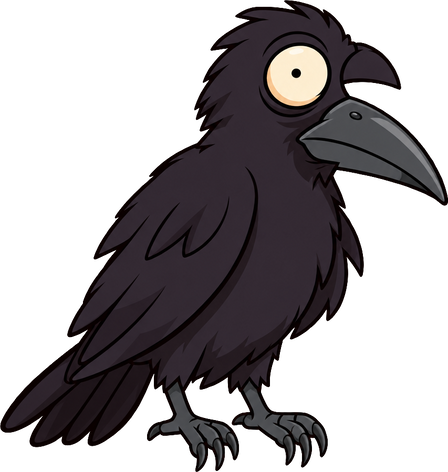
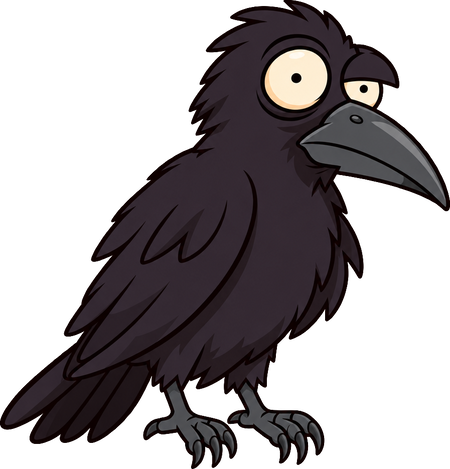
Crow: both eyes - the far eye drawn in over the beak, in every pose and flip
The crow's part take had the far eye's dark brow bump over the beak with a see-through gap under it and no eye,
so in profile (and mirrored, when it turns round) it read as one-eyed. Redrawn by the image model from that take
(gen_scare_parts.py: new takeref / cand / pick steps, the old take kept as raw/old/crow_1.png; candidate 3 of 3
picked, $0.084 each) with the far eye peeking over the beak under its brow, then registered on the old take
(scale .956, silhouette IoU .954) so the feet, neck joint and wing shoulders stay put.

cut_scare_parts.py cut crow + made crow (new `made <names>` filter): both eyes in crow_head, eye pixels all
alpha 1.0 (3366 cream px, 0 below 1). pack_scare_rig.py: rig.bin byte-identical (no animation change), atlas
re-packed (582.5 -> 583.0 KB), crow pivots re-anchored. Checked: every crow clip pose, flipped and not, game at
1920x1080 and 390x844 (DPR 3) before/after (research/crow_eye/, local), no console errors, 165 fps uncapped rAF
in headless Chrome.

diff --git a/tools/fall/gen_scare_parts.py b/tools/fall/gen_scare_parts.py
@@ -8,6 +8,9 @@ where its neighbours used to cover it, on a transparent background.
 
   .venv/Scripts/python.exe -I tools/fall/gen_scare_parts.py refs                # the reference pictures
   .venv/Scripts/python.exe -I tools/fall/gen_scare_parts.py gen [name,name|all] [--redo]   # the raw parts
+  .venv/Scripts/python.exe -I tools/fall/gen_scare_parts.py takeref <name> <raw.png>      # an earlier take as a ref
+  .venv/Scripts/python.exe -I tools/fall/gen_scare_parts.py cand <name> <first n> <count>   # takes into raw/cand/
+  .venv/Scripts/python.exe -I tools/fall/gen_scare_parts.py pick <name> <n>                # raw/cand/<name>_<n> -> raw/
 -> art/fall-src/scare_parts/ref/*.png, raw/<name>.png (an older take is kept as raw/old/<name>_<n>.png),
    log.jsonl (time, part, prompt, refs, cost). tools/fall/cut_scare_parts.py turns the raw takes into clean parts."""
 import json, os, shutil, sys, time
@@ -140,9 +143,18 @@ PARTS = {
     "jug": ("jug", "Draw ONLY his brown moonshine JUG as one separate piece: the stoneware jug with the tan XXX label "
             "band, the little handle ring, the cork, and the ring of rope tied round its neck. The rope that it "
             "hangs from is cut off just above the neck. NO straw, NO sleeve, NO hand, no wood."),
-    "crow": ("crow", "Draw ONLY the black CROW as one separate piece, wings folded, with its cream eye, grey beak and "
-             "both grey feet with their claws drawn COMPLETE (gripping nothing). NO wooden crossbar, NO rope, NO "
-             "straw."),
+    # (2026-11-15, owner: "fix the missing eye in our bird" - the first take drew the far eye's brow bump over the
+    # beak with nothing under it; the crow is redrawn from that take (reference 3) with BOTH eyes)
+    "crow": ("crow", "Draw ONLY the black CROW as one separate piece, wings folded, with its grey beak and both grey "
+             "feet with their claws drawn COMPLETE (gripping nothing). Reference 3 is the crow as it is drawn now: "
+             "copy reference 3 EXACTLY - the same pose, body, head, feathers, tail, beak, feet, proportions, line "
+             "weight and colours, at the same size and in the same place on the canvas - with ONE fix: it has only "
+             "one eye. Give it BOTH EYES, as in reference 2: the near eye stays exactly as it is (big round cream "
+             "eye, dark ink outline, small black pupil), and the FAR EYE is added on the other side of the head, "
+             "peeking out just above the top of the beak under that dark feather brow bump in front of the near "
+             "eye: a smaller cream eye (about two thirds the near eye's size) with the same dark ink outline and a "
+             "small black pupil looking the same way, partly hidden behind the beak and the head's front edge. Both "
+             "eyes are solid, opaque and clearly readable. NO wooden crossbar, NO rope, NO straw."),
     "crow_wing": ("crow", "Draw ONLY ONE spread WING of this black crow, as a separate piece on its own: the wing "
                   "opened out wide for flapping, the shoulder end at the lower right of the picture and the long "
                   "flight feathers fanned out to the upper left, in the crow's own purple-black colours with the same "
@@ -196,6 +208,56 @@ def prompt_of(name):
     return HEAD + what + SAME + STYLE
 
 
+# a part redrawn from an earlier take: ref/<file> is that take, cleaned and flattened on white (made by `takeref`)
+TAKE_REF = {"crow": "crow_take1.png"}
+
+
+def take_ref(name, src):
+    """An earlier raw take -> ref/TAKE_REF[name]: its alpha cleaned (cut_scare_parts.clean) and laid on white."""
+    import numpy as np
+    import cut_scare_parts as C
+    im = C.clean(C.load(src))
+    rgb = im[..., :3] * im[..., 3:] + (1 - im[..., 3:])
+    Image.fromarray((rgb * 255 + .5).clip(0, 255).astype(np.uint8)).save(os.path.join(REF, TAKE_REF[name]))
+
+
+def refs_of(name):
+    region, _ = PARTS[name]
+    rf = [os.path.join(REF, "full.png"), os.path.join(REF, region + ".png")]
+    if name in TAKE_REF:
+        rf.append(os.path.join(REF, TAKE_REF[name]))
+    return rf
+
+
+def candidate(name, n):
+    """One more take of a part into raw/cand/<name>_<n>.png (the current raw take is left alone; `pick` swaps one in)."""
+    import orimg
+    region, _ = PARTS[name]
+    out = os.path.join(RAW, "cand", f"{name}_{n}.png")
+    p, rf = prompt_of(name), refs_of(name)
+    try:
+        _, cost = orimg.generate(out, p, aspect=REGIONS[region][1], refs=rf)
+    except RuntimeError as e:
+        return f"FAIL {name}_{n} {e}"
+    with open(LOG, "a", encoding="utf-8") as fh:
+        fh.write(json.dumps({"t": time.strftime("%Y-%m-%d %H:%M:%S"), "part": f"{name} (candidate {n})",
+                             "region": region, "aspect": REGIONS[region][1],
+                             "refs": [os.path.relpath(r, ROOT) for r in rf], "prompt": p, "cost": cost}) + "\n")
+    return f"OK {name}_{n} {cost}"
+
+
+def pick(name, n):
+    """raw/cand/<name>_<n>.png becomes raw/<name>.png (the take it replaces is kept as raw/old/<name>_<k>.png)."""
+    out = os.path.join(RAW, name + ".png")
+    if os.path.exists(out):
+        os.makedirs(os.path.join(RAW, "old"), exist_ok=True)
+        k = 1
+        while os.path.exists(os.path.join(RAW, "old", f"{name}_{k}.png")):
+            k += 1
+        shutil.move(out, os.path.join(RAW, "old", f"{name}_{k}.png"))
+    shutil.copyfile(os.path.join(RAW, "cand", f"{name}_{n}.png"), out)
+
+
 def one(name):
     import orimg
     region, _ = PARTS[name]
@@ -207,7 +269,7 @@ def one(name):
             n += 1
         shutil.move(out, os.path.join(RAW, "old", f"{name}_{n}.png"))
     p = prompt_of(name)
-    rf = [os.path.join(REF, "full.png"), os.path.join(REF, region + ".png")]
+    rf = refs_of(name)
     try:
         _, cost = orimg.generate(out, p, aspect=REGIONS[region][1], refs=rf)
     except RuntimeError as e:
@@ -231,3 +293,12 @@ if __name__ == "__main__":
         with ThreadPoolExecutor(6) as ex:
             for r in ex.map(one, names):
                 print(r, flush=True)
+    elif step == "takeref":                  # takeref <name> <raw take png>
+        take_ref(sys.argv[2], sys.argv[3])
+    elif step == "cand":                     # cand <name> <first n> <how many>
+        name, n0, k = sys.argv[2], int(sys.argv[3]), int(sys.argv[4])
+        with ThreadPoolExecutor(6) as ex:
+            for r in ex.map(lambda n: candidate(name, n), range(n0, n0 + k)):
+                print(r, flush=True)
+    elif step == "pick":                     # pick <name> <n>
+        pick(sys.argv[2], int(sys.argv[3]))

diff --git a/tools/fall/cut_scare_parts.py b/tools/fall/cut_scare_parts.py
@@ -14,7 +14,7 @@ Then the made parts (make_*): the crow's head cut off its body at the neck, the 
 and its foot from the round-2 pole layer, and the eyes / pupils / lids / brows, which are DRAWN here (solid, crisp,
 exactly registered on each other - the old whole-head face swaps had see-through eyes and a shadow behind the head).
 
-  .venv/Scripts/python.exe -I tools/fall/cut_scare_parts.py [cut] [made] [sheet]"""
+  .venv/Scripts/python.exe -I tools/fall/cut_scare_parts.py [cut [take,take]] [made [crow,hat,..]] [sheet]"""
 import json, math, os, sys
 
 import numpy as np
@@ -55,7 +55,9 @@ TAKES = {
               ("jug_rope", (.5, 0, 152, 470, .36, 0, dict(rows=(0, .40)))),
               ("belt_a", (.5, .1, 577, 748, .27, 0)), ("belt_b", (.5, 0, 588, 752, .25, -8, dict(rows=(.3, 1))))],
     "jug": [("jug", (0, 0, 38, 564, .222, 0))],
-    "crow": [("crow", (0, 0, 757, 189, .2625, 0))],
+    # (2026-11-15: the take with both eyes, redrawn from the first; registered on it - scale .956, shift (20, 32) raw
+    # px, silhouette IoU .954 - so the feet, the neck joint and the wings' shoulders stay where they were)
+    "crow": [("crow", (0, 0, 757.7, 189.0, .2510, 0))],
     "crow_wing": [("wing", (.93, .78, 858, 292, .15, 0))],
     # the mouths: every one centred on MOUTH (the head's own tilt turned into them: the takes are drawn level)
     "mouths_a": [("mouth_grin", (.5, .5, 505, 412, .26, 4)), ("mouth_cheer", (.5, .4, 505, 412, .25, 18)),
@@ -550,15 +552,16 @@ def make_trousers(meta):
     print("trousers: crotch at art y", round(ty + crotch / S), joints)
 
 
-def made():
+MAKERS = {"hat": make_hat, "crow": make_crow, "pole": make_pole, "face": make_face, "mouth": make_mouth,
+          "trousers": make_trousers}
+
+
+def made(only=None):
     mp = os.path.join(OUT, "parts.json")
     meta = json.load(open(mp))
-    make_hat(meta)
-    make_crow(meta)
-    make_pole(meta)
-    make_face(meta)
-    make_mouth(meta)
-    make_trousers(meta)
+    for k, fn in MAKERS.items():
+        if not only or k in only:
+            fn(meta)
     json.dump(meta, open(mp, "w"), indent=1)
     print("made:", ", ".join(k for k in meta if k.split("_")[0] in ("hat", "crow", "post", "crossbar", "ground", "eye",
                                                                      "pupil", "lid", "brow")))
@@ -569,8 +572,8 @@ if __name__ == "__main__":
     args = sys.argv[1:] or ["cut"]
     if args[0] == "cut":
         cut(args[1].split(",") if len(args) > 1 else None)
-    elif args[0] == "made":
-        made()
+    elif args[0] == "made":                      # made [hat,crow,pole,face,mouth,trousers]
+        made(args[1].split(",") if len(args) > 1 else None)
     elif args[0] == "ghost":                     # the parts over the faded old figure: ghost out.png name,name [x0,y0,x1,y1] [zoom]
         meta = json.load(open(os.path.join(OUT, "parts.json")))
         z = float(args[4]) if len(args) > 4 else 1.0
